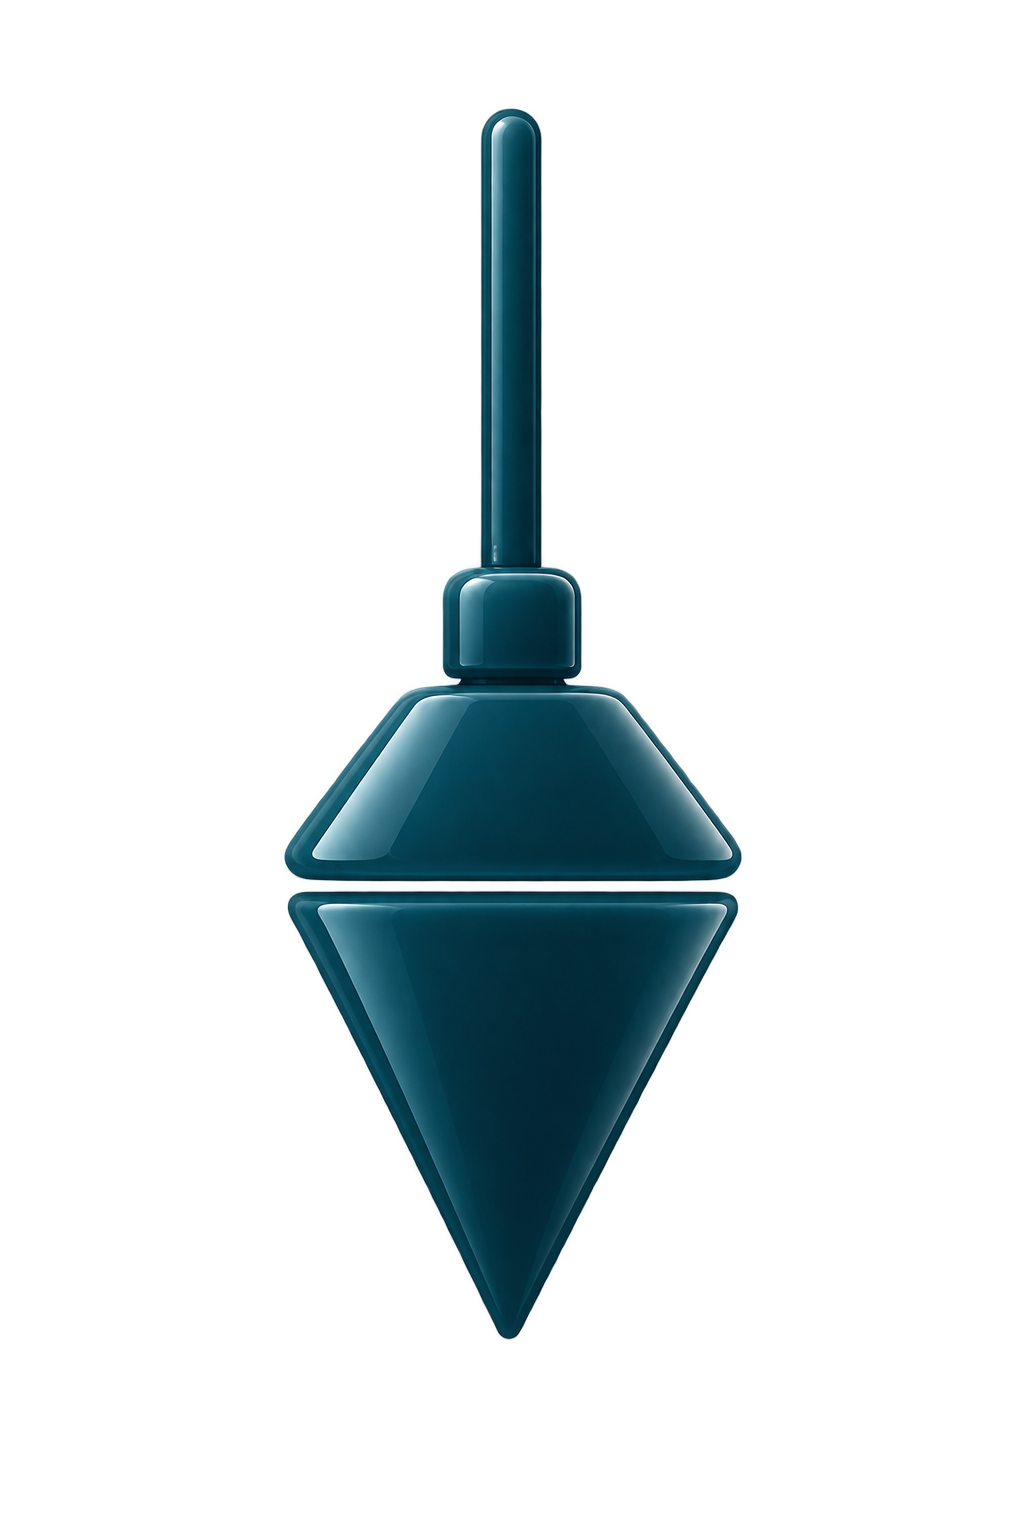
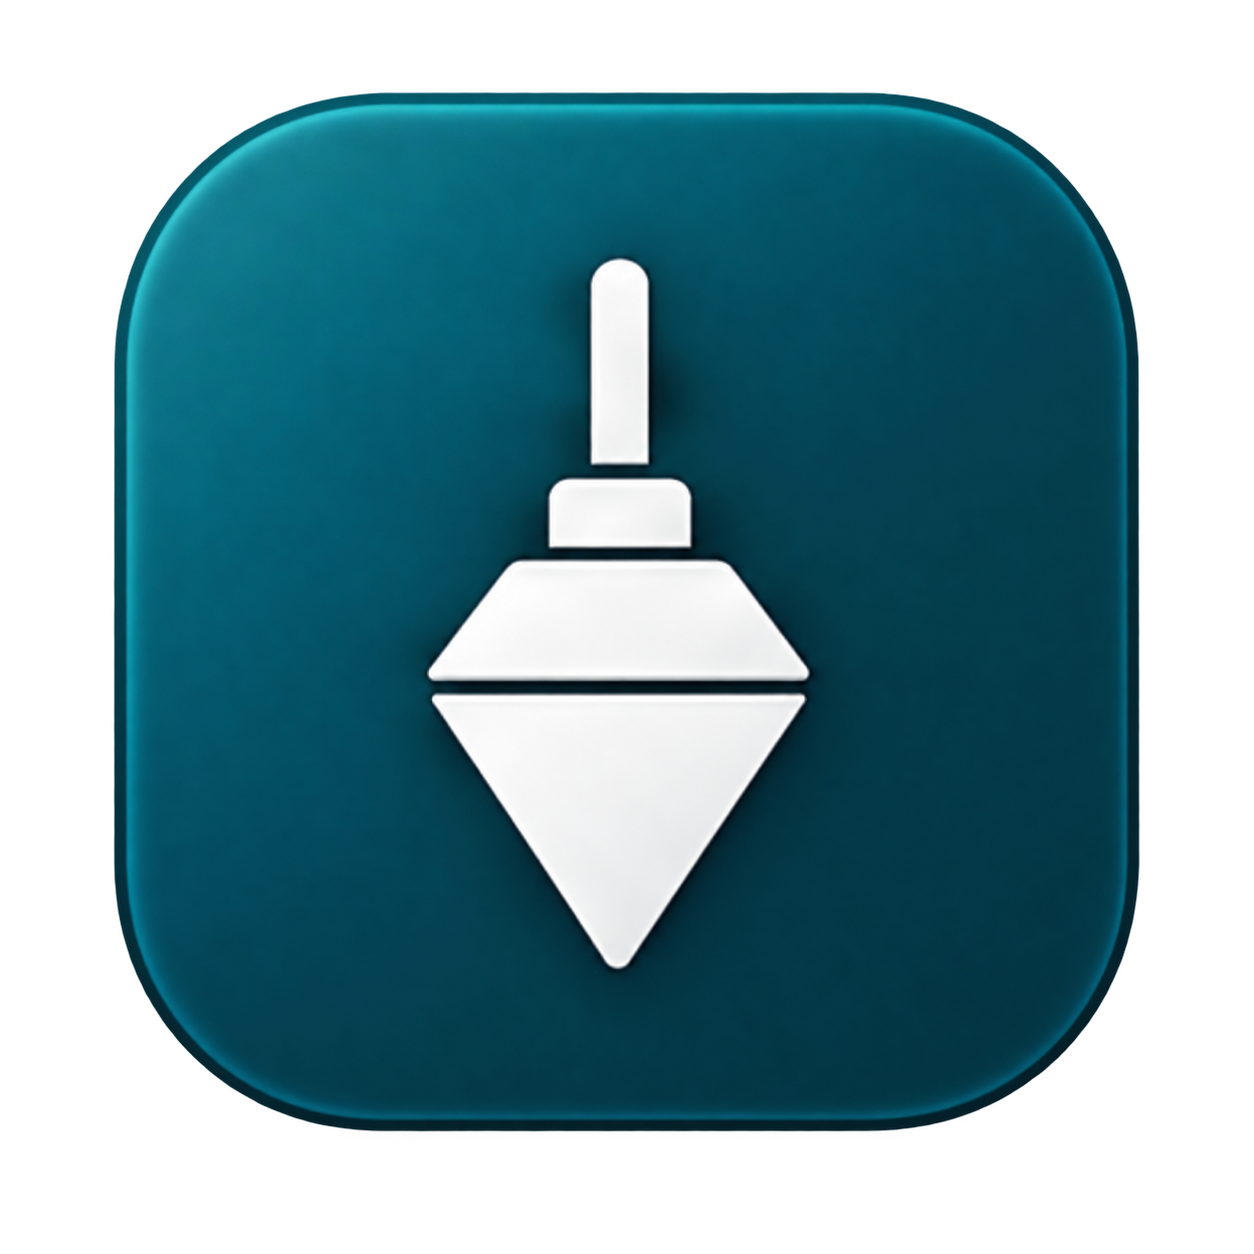
Neues App-Zeichen: Senklot weiß auf der Kachel in Petrol
Das vom Betrieb gelieferte Bild ist Vorlage für Reiter und Startbildschirm
(marke/app-zeichen.png, unverändert). rastern.mjs bereinigt beim Erzeugen
die Deckkraft (Kachel 246–253 → 255, Reste ≤ 2 % ringsum weg) und erzeugt
zwei Formen: die Kachel mit durchsichtigen Ecken (Favicon, „any“) und
randlos deckend für iOS und Android maskable — das Innere der Kachel ohne
Fase, verlängert, bis das Senklot im sicheren Kreis liegt (38 % Radius).

appZeichen.test.ts liest die Bilder jetzt ganz: Ecken, Deckkraft jedes
Pixels, sicherer Kreis. Gegenprobe: mit den alten Bildern 8 rot, ohne
Verlängerung der Kreis rot (0,44).

Claude-Session: https://claude.ai/code/session_01GpY5KVxfV71gaTcpEwQr6p

diff --git a/tests/unit/appZeichen.test.ts b/tests/unit/appZeichen.test.ts
@@ -1,10 +1,12 @@
 /**
- * App-Zeichen und Favicon — das Senklot auf Weiß (seit 04.10.2026).
+ * App-Zeichen und Favicon — das Senklot weiss auf der Kachel in Petrol
+ * (seit 12.10.2026, vom Betrieb geliefert; davor auf Weiss).
  *
  * Was hier steht, sieht kein Test der Oberfläche: der Reiter, der
  * Startbildschirm, der Start der App unter Android. Ein falsch
- * zugeschnittenes Bild oder eine durchsichtige Ecke fällt erst am Telefon
- * auf — und iOS behält das Bild, bis die App dort neu hinzugefügt wird.
+ * zugeschnittenes Bild oder eine durchsichtige Ecke am falschen Ort fällt
+ * erst am Telefon auf — und iOS behält das Bild, bis die App dort neu
+ * hinzugefügt wird.
  */
 import { describe, it, expect } from 'vitest';
 import { readFileSync } from 'node:fs';
@@ -13,28 +15,49 @@ import { inflateSync } from 'node:zlib';
 
 const lies = (pfad: string) => readFileSync(resolve(process.cwd(), pfad));
 
-/** Breite, Höhe und das Pixel links oben — mehr braucht die Prüfung nicht. */
-function pngKopf(daten: Buffer) {
+/**
+ * Ein PNG ganz gelesen: Breite, Höhe und jedes Pixel als RGBA. Nur was
+ * `rastern.mjs` schreibt — 8 Bit, RGB oder RGBA, ohne Zeilensprung —, dafür
+ * jeder der fünf Zeilenfilter.
+ */
+function pngLesen(daten: Buffer) {
   expect(daten.subarray(1, 4).toString('latin1')).toBe('PNG');
   const breite = daten.readUInt32BE(16);
   const hoehe = daten.readUInt32BE(20);
+  expect(daten[24], 'nur 8 Bit je Kanal').toBe(8);
+  expect(daten[28], 'ohne Zeilensprung').toBe(0);
   const farbtyp = daten[25];
+  const kanaele = farbtyp === 6 ? 4 : farbtyp === 2 ? 3 : 0;
+  expect(kanaele, 'nur RGB oder RGBA').toBeGreaterThan(0);
   const idat: Buffer[] = [];
   for (let i = 8; i < daten.length; ) {
     const laenge = daten.readUInt32BE(i);
     if (daten.subarray(i + 4, i + 8).toString('latin1') === 'IDAT') idat.push(daten.subarray(i + 8, i + 8 + laenge));
     i += 12 + laenge;
   }
-  /*
-    Das erste Pixel der ersten Zeile steht in jedem PNG-Filter unverändert
-    da: es hat weder einen linken noch einen oberen Nachbarn, alle Vorhersagen
-    sind null. Ein ganzer Dekoder wäre hier zu viel.
-  */
   const roh = inflateSync(Buffer.concat(idat));
-  const kanaele = farbtyp === 6 ? 4 : farbtyp === 2 ? 3 : 0;
-  expect(kanaele, 'nur RGB oder RGBA mit 8 Bit').toBeGreaterThan(0);
-  const ecke = [...roh.subarray(1, 1 + kanaele)];
-  return { breite, hoehe, ecke: kanaele === 3 ? [...ecke, 255] : ecke };
+  const zeile = breite * kanaele;
+  const bild = new Uint8Array(zeile * hoehe);
+  for (let y = 0; y < hoehe; y += 1) {
+    const filter = roh[y * (zeile + 1)];
+    const ein = y * (zeile + 1) + 1;
+    for (let x = 0; x < zeile; x += 1) {
+      const a = x >= kanaele ? bild[y * zeile + x - kanaele] : 0;
+      const b = y > 0 ? bild[(y - 1) * zeile + x] : 0;
+      const c = x >= kanaele && y > 0 ? bild[(y - 1) * zeile + x - kanaele] : 0;
+      const p = a + b - c;
+      const pa = Math.abs(p - a);
+      const pb = Math.abs(p - b);
+      const pc = Math.abs(p - c);
+      const vorhersage = [0, a, b, (a + b) >> 1, pa <= pb && pa <= pc ? a : pb <= pc ? b : c][filter];
+      bild[y * zeile + x] = (roh[ein + x] + vorhersage) & 0xff;
+    }
+  }
+  const pixel = (x: number, y: number): [number, number, number, number] => {
+    const i = (y * breite + x) * kanaele;
+    return [bild[i], bild[i + 1], bild[i + 2], kanaele === 4 ? bild[i + 3] : 255];
+  };
+  return { breite, hoehe, pixel };
 }
 
 const manifest = JSON.parse(lies('public/manifest.webmanifest').toString('utf8'));
@@ -68,15 +91,60 @@ describe('App-Zeichen und Favicon', () => {
   });
 
   it.each(ZEICHEN)('$datei ist quadratisch in der angegebenen Größe', ({ datei, groesse }) => {
-    const { breite, hoehe } = pngKopf(lies(`public/${datei}`));
+    const { breite, hoehe } = pngLesen(lies(`public/${datei}`));
     expect([breite, hoehe]).toEqual([groesse, groesse]);
   });
 
-  it.each(ZEICHEN)('$datei hat eine deckend weisse Ecke — keine durchsichtige', ({ datei }) => {
-    // iOS rechnet Durchsichtigkeit gegen Schwarz: eine durchsichtige Ecke
-    // würde dort schwarz. Android schneidet rund zu. Beides geht nur ohne
-    // Bruch, wenn der Grund bis in die Ecke deckend Weiss ist.
-    expect(pngKopf(lies(`public/${datei}`)).ecke).toEqual([255, 255, 255, 255]);
+  /*
+    ZWEI FORMEN. Wo der Browser oder das System das Bild so zeigt, wie es
+    ist (Reiter, Zeichen „any“), steht die Kachel mit ihren runden Ecken —
+    die Ecken sind durchsichtig. Wo das System selbst zuschneidet (iOS,
+    Android maskable), ist das Bild randlos und deckend: iOS rechnet
+    Durchsichtiges gegen Schwarz, und eine Ecke der Kachel innerhalb der
+    Maske von Android stünde als heller Fleck da.
+  */
+  const RANDLOS = ['apple-touch-icon.png', 'icon-maskable-512.png'];
+  const KACHEL = ZEICHEN.filter((z) => !RANDLOS.includes(z.datei));
+
+  it.each(KACHEL)('$datei ist die Kachel: durchsichtige Ecken, deckende Mitte', ({ datei, groesse }) => {
+    const { pixel } = pngLesen(lies(`public/${datei}`));
+    const r = groesse - 1;
+    // Bei 16 px ragt die Rundung knapp in das Eckpixel (Deckkraft 7 von 255) — durchsichtig heisst hier: fast nichts.
+    for (const [x, y] of [[0, 0], [r, 0], [0, r], [r, r]]) expect(pixel(x, y)[3], `Ecke ${x},${y}`).toBeLessThan(16);
+    expect(pixel(groesse >> 1, groesse >> 2)[3], 'oben in der Mitte').toBe(255);
+  });
+
+  it.each(RANDLOS.map((datei) => ({ datei })))('$datei ist randlos und in jedem Pixel deckend', ({ datei }) => {
+    const { breite, hoehe, pixel } = pngLesen(lies(`public/${datei}`));
+    const durchsichtig: string[] = [];
+    for (let y = 0; y < hoehe; y += 1) {
+      for (let x = 0; x < breite; x += 1) if (pixel(x, y)[3] !== 255) durchsichtig.push(`${x},${y}`);
+    }
+    expect(durchsichtig.slice(0, 5)).toEqual([]);
+    // Die Ecke ist der Grund der Kachel (Petrol), nicht Weiss und nicht Schwarz.
+    const [r, g, b] = pixel(0, 0);
+    expect(b, 'Petrol: mehr Blau als Rot').toBeGreaterThan(r + 40);
+    expect(g, 'Petrol: mehr Grün als Rot').toBeGreaterThan(r + 40);
+  });
+
+  it('das maskable Zeichen hält das Senklot im sicheren Kreis', () => {
+    // Android garantiert nur einen Kreis von 80 % der Breite um die Mitte;
+    // was ausserhalb liegt, schneidet eine runde Maske weg — zuerst die Schnur.
+    const { breite, hoehe, pixel } = pngLesen(lies('public/icon-maskable-512.png'));
+    const mitte = breite / 2;
+    let weitester = 0;
+    let gefunden = 0;
+    for (let y = 0; y < hoehe; y += 1) {
+      for (let x = 0; x < breite; x += 1) {
+        const [r, g, b] = pixel(x, y);
+        if (r > 200 && g > 200 && b > 200) {
+          gefunden += 1;
+          weitester = Math.max(weitester, Math.hypot(x + 0.5 - mitte, y + 0.5 - mitte));
+        }
+      }
+    }
+    expect(gefunden, 'das weisse Senklot ist da').toBeGreaterThan(breite * hoehe * 0.05);
+    expect(weitester / breite).toBeLessThanOrEqual(0.4);
   });
 
   it.each(ZEICHEN)('$datei ist dieselbe Datei wie in marke/', ({ datei }) => {
@@ -85,8 +153,10 @@ describe('App-Zeichen und Favicon', () => {
     expect(lies(`public/${datei}`).equals(lies(`marke/${datei}`))).toBe(true);
   });
 
-  it('startet unter Android auf dem Grund des Zeichens', () => {
-    // Auf einer anderen Farbe stünde beim Start ein weisses Quadrat.
+  it('startet unter Android auf Weiss, wie die App', () => {
+    // Der Startbildschirm unter Android zeigt das Zeichen auf dieser Farbe,
+    // gleich danach kommt die helle App. Mit der Kachel steht dort ein
+    // Zeichen in Petrol auf Weiss — so wie im Reiter des Browsers.
     expect(manifest.background_color.toLowerCase()).toBe('#ffffff');
   });
 

diff --git a/docs/handbuch/handbuch.html b/docs/handbuch/handbuch.html
@@ -678,7 +678,7 @@
     <div class="stempel">
       <span>Stand <b>12.10.2026</b></span>
       <span>Fassung <b>Kleinere Bedienpunkte</b></span>
-      <span>Automatische Prüfungen <b>7014</b></span>
+      <span>Automatische Prüfungen <b>7015</b></span>
       <span><a href="https://installateur-demo.firebaseapp.com/">installateur-demo.firebaseapp.com</a></span>
     </div>
   </header>
@@ -1295,7 +1295,7 @@
       </div>
       <div class="bereich">
         <h3>Neues App-Zeichen<span class="neu">geändert</span></h3>
-        <p>Seit dem 04.10. zeigen Browserreiter und Startbildschirm das Senklot in Petrol mit Glanz auf weißem Grund, wie es der Betrieb ausgesucht hat. Auf dem iPhone wechselt das Bild erst, wenn die App dort entfernt und neu hinzugefügt wird; Android und der Browser holen es von selbst. Wer die App am 04.10. in den ersten Stunden hinzugefügt hat, hat am iPhone noch das Zeichen auf Schwarz — entfernen und neu hinzufügen. Die Marke in der Seitenleiste, über dem Anmeldeformular und auf den Rechtsseiten bleibt, wie sie ist, ebenso das Logo des Betriebs.</p>
+        <p>Seit dem 12.10. zeigen Browserreiter und Startbildschirm das Senklot weiß auf einer Kachel in Petrol, wie es der Betrieb geliefert hat (vom 04. bis 12.10. war es das Senklot in Petrol auf Weiß). Auf dem iPhone wechselt das Bild erst, wenn die App dort entfernt und neu hinzugefügt wird; Android und der Browser holen es von selbst, sobald die neue Fassung der App geladen ist. Im Browserreiter ist das Senklot bei der kleinsten Größe nur angedeutet. Die Marke in der Seitenleiste, über dem Anmeldeformular und auf den Rechtsseiten bleibt, wie sie ist, ebenso das Logo des Betriebs.</p>
         <p class="wer">Jeder</p>
       </div>
       <div class="bereich">

diff --git a/marke/LIESMICH.md b/marke/LIESMICH.md
@@ -13,7 +13,7 @@ kommt von *plumbum*, Blei — dem Werkstoff des Senklots.
 |---|---|
 | `logo.svg` | Wortmarke, waagrecht. Für Kopfzeilen, Briefpapier, Anmeldebildschirm |
 | `icon.svg` | Das Zeichen als Fläche, 64er-Raster — die Maße für Wortmarke und Produktmarke |
-| `app-zeichen.png` | **Vorlage für App-Zeichen und Favicon**: das Senklot auf Weiß, 1024 × 1536 |
+| `app-zeichen.png` | **Vorlage für App-Zeichen und Favicon**: das Senklot weiß auf der Kachel in Petrol, 1254 × 1254, wie geliefert |
 | `*.png` (übrige) | Aus `app-zeichen.png` erzeugt, siehe unten |
 
 ## Die Form (seit 03.10.2026)
@@ -37,36 +37,41 @@ Die Maße stehen in `icon.svg` (64er-Raster); `logo.svg`, die Produktmarke in
 der App (`src/components/ProduktMarke.tsx`) und der Kopf des Handbuchs tragen
 dieselben Pfade.
 
-## App-Zeichen und Favicon (seit 04.10.2026)
+## App-Zeichen und Favicon (seit 12.10.2026)
 
-Am Startbildschirm und im Browserreiter steht seit dem 04.10.2026 ein Bild
-statt der Fläche: das Senklot in Petrol mit Glanz auf Weiß
-(`app-zeichen.png`), vom Betrieb ausgesucht. **Nur dort.** Wortmarke,
-Produktmarke in der App und Kopf des Handbuchs bleiben die einfarbige Fläche
-aus `icon.svg` — sie stehen klein, weiß auf Petrol oder neben Schrift, und
-dort trägt eine Fläche, ein Glanzbild nicht.
+Am Startbildschirm und im Browserreiter steht seit dem 12.10.2026 das
+Senklot **weiß auf einer Kachel in Petrol**, mit Verlauf und Fase — vom
+Betrieb geliefert und ausgesucht. **Nur dort.** Wortmarke, Produktmarke in
+der App und Kopf des Handbuchs bleiben die einfarbige Fläche aus `icon.svg`
+— sie stehen klein, weiß auf Petrol oder neben Schrift, und dort trägt eine
+Fläche, ein Glanzbild nicht.
 
-Die gelieferte Datei zeigte das Senklot mit Glühen auf Schwarz. Ihr Grund ist
-durchsichtig; das Glühen steht nur in den Farbwerten, die Durchsichtigkeit
-schneidet das Senklot sauber frei. Am selben Tag hat der Betrieb sich für
-Weiß entschieden (zuerst war es kurz das Bild auf Schwarz, #238).
-`app-zeichen.png` ist deshalb die Datei auf Weiß gelegt — das Glühen gehört
-zum schwarzen Grund und fällt dabei weg. Abseits des Senklots lagen noch Reste
-mit höchstens 2 % Deckkraft, auf Weiß als grauer Schleier zu sehen; sie sind
-entfernt, die Kanten des Senklots sind unberührt.
+`app-zeichen.png` ist die gelieferte Datei, unverändert: die Kachel auf
+durchsichtigem Grund. Was an ihr nicht stimmte, bereinigt `rastern.mjs`
+beim Erzeugen, nicht die Vorlage: die Kachel war innen nicht ganz deckend
+(246–253 statt 255) und ringsum lagen Reste mit höchstens 2 % Deckkraft, auf
+Weiß ein grauer Schleier. Die geglättete Kante der Kachel bleibt unberührt.
 
-Wie zugeschnitten wird, steht in `rastern.mjs`:
+Wie zugeschnitten wird, steht in `rastern.mjs`. Es gibt zwei Formen:
 
-* **Hochformat aufs Quadrat.** Die Vorlage kommt mittig auf ein weißes
-  Quadrat; sie ist am ganzen Rand weiß, der Übergang ist unsichtbar.
-* **Das Favicon ist enger zugeschnitten** als das App-Zeichen, damit bei
-  16 px möglichst viel vom Zeichen bleibt. Die Schnur ist dort nur noch ein
-  Hauch; erkennbar bleibt das Lot an Schulter und Spitze.
-* **`icon-maskable-512.png` zeigt das ganze Quadrat**, weil Android bis auf
-  einen Kreis von 80 % wegschneidet. Ohne den Rand köpft das System die
-  Schnur.
-* **Apple-Touch-Icon quadratisch und randlos**, ohne durchsichtige Ecke: iOS
-  rundet selbst ab.
+* **Die Kachel** für den Reiter und die Zeichen `icon-192`/`icon-512`
+  („any“): so, wie geliefert, die runden Ecken durchsichtig.
+* **Randlos** für `apple-touch-icon.png` und `icon-maskable-512.png`: iOS
+  rundet selbst ab und rechnet Durchsichtiges vorher gegen Schwarz, Android
+  schneidet das maskable Zeichen in seine Form. Genommen wird das Innere der
+  Kachel ohne Rand und Fase (112 px vom Rand) und ringsum mit seiner
+  äußersten Zeile und Spalte verlängert, bis das Senklot nur noch bis 38 %
+  der Breite von der Mitte reicht — Android garantiert einen Kreis von
+  40 %. In der Verlängerung läuft der Grund eben; bei starker Vergrößerung
+  sind dort feine Streifen zu erkennen, in Originalgröße und unter der Maske
+  nicht.
+* **Das Favicon ist die Kachel im Kleinen.** Bei 16 px ist das Senklot nur
+  noch angedeutet — Schulter und Spitze als heller Fleck, die Schnur ein
+  Hauch. Ab 32 px ist es klar zu erkennen.
+
+Davor (04.–12.10.2026) war es das Senklot in Petrol mit Glanz auf Weiß, ganz
+am Anfang des 04.10. kurz auf Schwarz (#238, #241); die Vorlagen stehen in
+der Geschichte des Repositorys.
 
 Bis zum 03.10.2026 war das Favicon eine eigene Zeichnung für 16 px
 (`favicon.svg`, ohne Schnur, mit breiteren Fugen). Mit dem Bild als Vorlage
@@ -84,7 +89,7 @@ Zwei, mehr nicht.
 | Grund | `#FFFFFF` |
 
 Das gilt für die Fläche (Wortmarke, Produktmarke). App-Zeichen und Favicon
-sind seit dem 04.10.2026 das Bild auf Weiß, siehe oben — derselbe Grund.
+sind seit dem 12.10.2026 das gelieferte Bild — weiß auf Petrol, siehe oben.
 
 ### Die Platte war weiss, nicht petrol (bis 03.10.2026)
 
@@ -107,6 +112,12 @@ schwarzen Ecken geworden.
 Auf dunklem Grund steht das Zeichen in `#FFFFFF` ohne Platte — so in der
 Seitenleiste und über dem Anmeldeformular.
 
+**Seit dem 12.10.2026 ist das App-Zeichen wieder weiß auf Petrol** — die
+Kachel, die der Betrieb geliefert hat. Die Abwägung oben gilt weiter und
+zeigt sich genau dort, wo sie vorhergesagt war: bei 16 px im Reiter läuft
+das helle Senklot an den Kanten zu. Die Fläche (Wortmarke, Produktmarke)
+bleibt, wie sie ist.
+
 ## PNG neu erzeugen
 
 ```
@@ -128,10 +139,17 @@ macht.
 
 Der Service Worker nimmt `/icon-192.png` als Bild der Push-Meldung und
 `/favicon-64.png` als Abzeichen — beides wechselt damit mit. Android zeichnet
-das Abzeichen in der Statusleiste nur aus der Durchsichtigkeit; ein deckendes
-Bild wird dort ein volles Quadrat. Das war mit der weissen Platte schon so
-(damals mit gerundeten Ecken) und bleibt eine offene Kleinigkeit: ein eigenes
-Abzeichen als weisse Silhouette auf durchsichtigem Grund.
+das Abzeichen in der Statusleiste nur aus der Durchsichtigkeit; mit der Kachel
+wird es dort ein Quadrat mit runden Ecken, wie mit der weissen Platte bis
+03.10.2026. Offen bleibt die Kleinigkeit von damals: ein eigenes Abzeichen
+als weisse Silhouette auf durchsichtigem Grund.
+
+Die Bilder tragen keinen Fingerabdruck im Namen, der Service Worker hält sie
+trotzdem vor (`public/sw.js`, „erst Speicher, dann Netz“). Neu geholt werden
+sie mit der nächsten Fassung: jeder Bau schreibt Commit und Bauzeit in das
+JavaScript, damit ändert sich `index.html`, der Worker erkennt die neue
+Fassung und leert nach der Übernahme seinen Speicher. Ein Wechsel nur der
+Bilder ohne neuen Bau erreichte vorhandene Geräte also nicht.
 
 Am Startbildschirm und im Reiter steht jetzt **Senklot**
 (`manifest.webmanifest`, `<title>`), und über dem Anmeldeformular steht die

diff --git a/docs/stand-2026-10-03.md b/docs/stand-2026-10-03.md
@@ -1496,3 +1496,4 @@ verschlimmbessern. Je Thema ein PR, jeder mit Prüfungen samt Gegenprobe.
 | K6 | Bildschirmfotos „nachher“ aller Bereiche | erledigt: 75 Fotos nachher in `docs/ui-umbau/nachher/{start,auftraege,scheine,verwaltung,zeit,angebote,planung}/` (je Paket die wichtigen Seiten in der passenden Rolle, 390/834/1.440 px, Ausschnitt), dazu erstmals **vorher**: der Stand `vor-ui-lot` (4abb9ca) gebaut und gegen denselben Testbestand gestartet, dieselben Seiten in `docs/ui-umbau/vorher/` (72; das Seitenfenster eines Scheins gab es vorher nicht). Gegenüberstellung je Seite in `docs/ui-umbau/vergleich.md`; in den sieben Abnahmeblättern verlinkt. Material und Rechnungen hatten schon Fotos (ohne Vorher), Runde 4 hat eigene. **Nicht fotografiert:** die Plattform (eigenes Konto mit zweitem Faktor) |
 | K7 | Rücksprungpunkte je Umbauschritt (`ui-lot-E…`) | vorbereitet, gesetzt erst durch den Betreiber: die Schritte kamen als ein Commit nach `main` (#256); ihre Stände liegen nur auf dem Arbeitszweig (`refs/pull/256/head`). 13 Punkte zugeordnet — `vor-ui-lot`, `ui-lot-grundlage`, je Paket `ui-lot-E…`, `ui-lot`, `ui-lot-r4` — Tabelle und Begründung in `docs/ui-umbau/ruecksprung.md`. **Gesetzt sind sie nicht:** die Sitzung darf per Git nur ihren Zweig schreiben, der Tag-Push wurde abgelehnt (403). `bash scripts/ui-umbau/ruecksprung-tags.sh` setzt und schiebt alle 13 (gegen einen örtlichen Spiegel geprüft, ein zweiter Lauf ändert nichts). **Grenze:** ein Tag ist ein Bezugsstand; einen einzelnen Schritt auf dem heutigen `main` zurückzunehmen gibt Konflikte in 5–7 Dateien (geprüft für drei Pakete) |
 | G | Grenzen schließen, wo sinnvoll | erledigt, wo es Sinn ergibt: **G2** — wer einen Urlaub genehmigt (einen Sonderurlaub bestätigt) hat, bleibt nach einer Rücknahme stehen (`vacations.genehmigt_von_uid/_name`, `freistellungen.bestaetigt_von_uid/_name`, gesetzt vom selben Trigger wie der Tag, aus derselben Entscheidung); der Verlauf nennt ihn; in der Datenauskunft zählt die Genehmigung beim Genehmigenden mit (`urlaube_entschieden`, `freistellungen_entschieden`); die Löschung einer Person lässt ihn stehen wie `entschieden_von_name` an den Anträgen anderer. Ältere Genehmigungen bleiben ohne Namen. **G3** — ein falscher Wartungstag wird berichtigt statt verdoppelt: Haken „Der … war falsch — berichtigen“ im Formular, `wartung_tag_berichtigen` (security definer, nur Führung im eigenen Betrieb) ersetzt die Ausführung am bisherigen Tag, die Baustelle geht mit, frühere Ausführungen bleiben; ohne Haken wie bisher. Prüfungen: Datenbank 9 (`grenzenVerlaeufe.test.ts`; ohne Migration 8 rot), Ansicht 5; `verlaeufe.test.ts` spielt beim Nachstellen jetzt auch alle späteren Migrationen ein — sonst setzte sie die neuen Trigger auf den alten Stand zurück. **Bewusst offen, mit dem Grund, der hier schon steht:** „Urlaub im Monat“ ohne Krankenstand und Sonderurlaub (Gesundheitsdaten, dem Büro vorbehalten); Mindestmenge und Materialaufschlag nicht im ⋯ des Lagers (Mindestmenge je Artikel, Aufschlag in den Einstellungen); Storno eines verrechneten Scheins einen Wechsel weiter (zur Entscheidung des Betreibers, E12); Löschung nach sieben Jahren (A9: früheste Frist 2031, mit der Steuerberatung); Tailwind-Umbau (B10: weiter Ansicht für Ansicht); Silbentrennung eingegebener Namen (bräuchte eine Trennbibliothek im Browser — abgeschnitten wird nichts); letzte Zeile der Angebotsliste (G8, in keiner Breite nachstellbar); seitenweises Nachladen vom Server (die Listen erweitern mit „Weitere … laden“, die Suche bei Angeboten und Anforderungen reicht seit #300 über alles); „Erledigt nach 14 Tagen“ (es gibt keinen Zeitpunkt des Abschlusses); „Tag buchen“ (eigener Auftrag). **Beobachtet:** `WorkSheetView` „ergibt in Schritten und auf einer Seite denselben Beleg“ fiel einmal aus, während die Bestandsaufnahme mit drei Browsern lief; allein braucht der Test 2,2 s bei 5 s Vorgabe — vermutlich eine Zeitüberschreitung unter Last, nicht belegt, unverändert |
+| Z | Neues App-Zeichen (Auftrag vom 12.10.2026, nebenbei) | erledigt: das gelieferte Bild — Senklot weiß auf der Kachel in Petrol — ist Vorlage für Reiter und Startbildschirm (`marke/app-zeichen.png`, unverändert; bereinigt wird beim Erzeugen: Deckkraft in der Kachel 246–253 → 255, Reste ≤ 2 % ringsum weg). Zwei Formen: die Kachel mit durchsichtigen Ecken (Favicon, „any“), randlos und deckend für iOS und Android (maskable) — das Innere der Kachel ohne Fase, verlängert, bis das Senklot im sicheren Kreis von 80 % liegt (38 % Radius). Prüfungen: `appZeichen.test.ts` liest die Bilder jetzt ganz (Ecken, Deckkraft jedes Pixels, sicherer Kreis); Gegenprobe: mit den alten Bildern 8 rot, ohne die Verlängerung der Kreis rot (0,44). **Grenzen:** bei 16 px ist das helle Senklot auf Petrol nur angedeutet (die Abwägung vom 03.10. in `marke/LIESMICH.md`); in der Verlängerung des Grunds sind bei starker Vergrößerung feine Streifen zu sehen; die Bilder sind wegen des Verlaufs grösser (512er: 59 → 320 KB, nur beim Hinzufügen geladen); am iPhone wechselt das Zeichen erst nach Entfernen und neu Hinzufügen |
